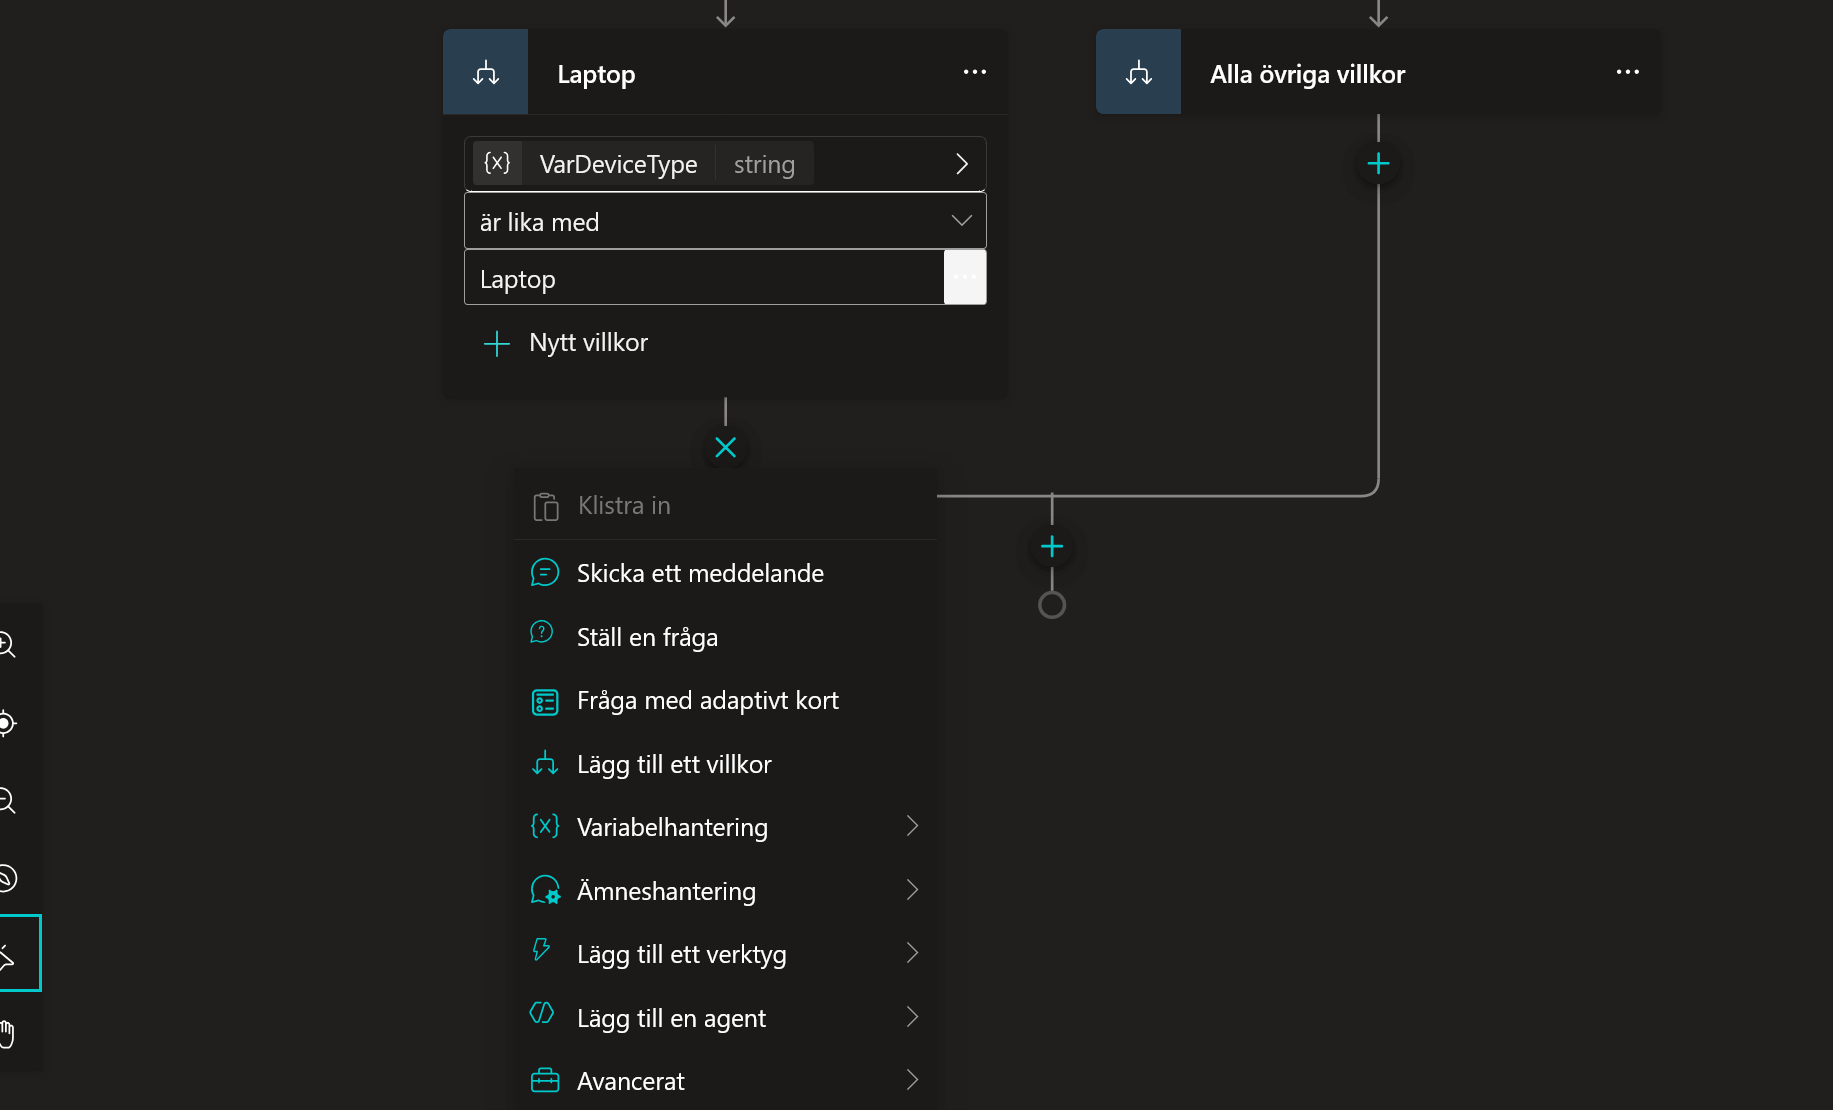
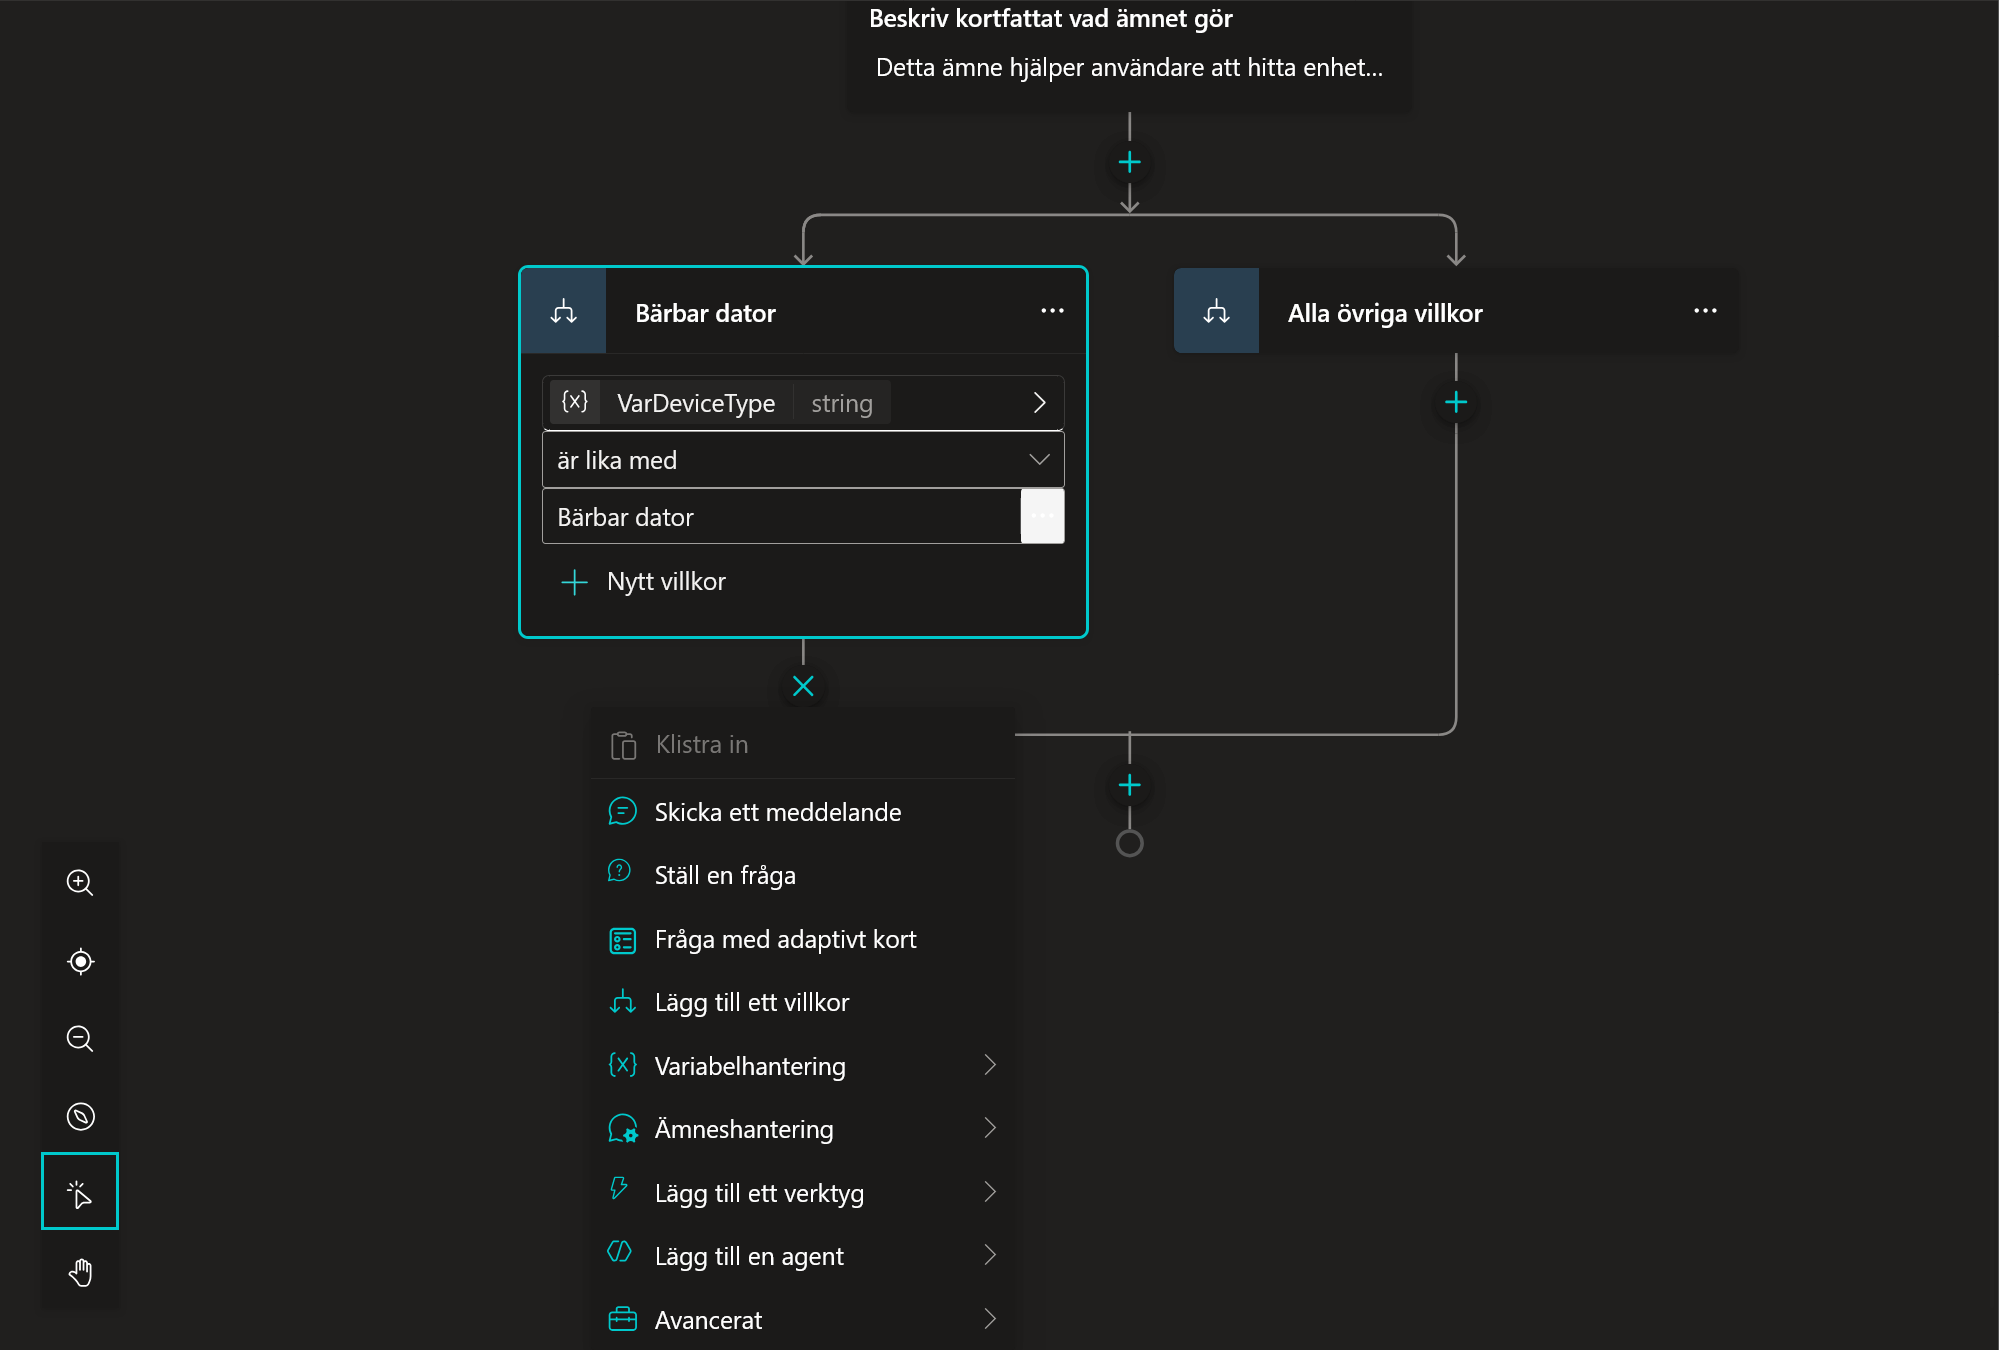
Fix två spåk

diff --git a/docs/04-create-agent.sv.md b/docs/04-create-agent.sv.md
@@ -2,7 +2,7 @@
 
 Nu har vi gjort klart all nödvändig setup. Vi har datan, vi har miljön och vi har vår Solution. Nu är det dags att börja bygga!
 
-Vi ska bygga en **IT Support Helper**. I början kommer den fokusera på hårdvara (det vi lade i SharePoint), men tanken är att den ska växa och kunna hantera alla möjliga IT-frågor framöver.
+Vi ska bygga en **IT Support agent**. I början kommer den fokusera på hårdvara (det vi lade i SharePoint), men tanken är att den ska växa och kunna hantera alla möjliga IT-frågor framöver.
 
 ---
 
@@ -16,7 +16,7 @@ Vi rekommenderar att du använder huvudmenyn (den vanliga vägen), men för kän
     Om du vill vara 100% säker på var agenten hamnar, eller om du inte använder "Föredragen lösning"-funktionen, gör du så här:
 
     **1. Gå in i din Solution**
-    Navigera till **Lösningar** i menyn och klicka på din lösning (`IT Helpdesk Agent`).
+    Navigera till **Lösningar** i menyn och klicka på din lösning (`IT Support Agent`).
     
     ![Lista med lösningar](assets/images-sv/chap04/1.png)
 
@@ -59,7 +59,7 @@ Vi kommer att välja alternativ 3: **Skapa tom agent**.
 **Gör så här:**
 
 1. Om du varit inne i Lösningar nyss: Klicka på **Copilot Studio**-loggan uppe till vänster.
-2. Klicka på **Agenter** i vänstermenyn.
+2. Klicka på **Handläggare** i vänstermenyn.
 3. Klicka på **+ Skapa tom agent** (uppe i högra hörnet).
 
     ![Klicka på Skapa tom agent](assets/images-sv/chap04/6.png)
@@ -93,7 +93,7 @@ Till höger ser du **Testa din agent**. Det är din sandlåda där du kan chatta
 
 Nu ska vi ge agenten dess identitet. Fyll i följande i fälten på skärmen:
 
-1.  **Namn:** `IT Support Helper`
+1.  **Namn:** `IT Support agent`
 2.  **Beskrivning:**
     ```text
     En professionell IT-supportagent som hjälper användare med frågor om hårdvara och nätverk osv.
@@ -137,7 +137,7 @@ Vi börjar med att kolla att den förstår sin roll.
     > *Hej, vem är du?*
 
 2. **Förväntat resultat:**
-    Agenten ska presentera sig som **IT Support Helper** (eller det namn du valde) och erbjuda hjälp. Den ska vara trevlig och professionell.
+    Agenten ska presentera sig som **IT Support agent** (eller det namn du valde) och erbjuda hjälp. Den ska vara trevlig och professionell.
 
 ![Agenten hälsar](assets/images-sv/chap04/9.png)
 

diff --git a/docs/06-create-topic.sv.md b/docs/06-create-topic.sv.md
@@ -154,7 +154,8 @@ Vi ska börja med att skapa ett vägskäl. Om användaren vill ha en "Bärbar da
     * **Lägg till ett villkor:** Skapar vägval (Om X, gör Y). Som en "If-sats".
     * **Variabelhantering:** För att skapa eller ändra variabler manuellt.
     * **Ämneshantering:** För att hoppa till andra ämnen eller avsluta samtalet.
-    * **Anropa en åtgärd (Lägg till ett verktyg):** Här hittar vi våra "superkrafter" som Power Automate och SharePoint.
+    * **Lägg till ett verktyg:** Här hittar vi våra "superkrafter" som Power Automate och SharePoint.
+    * **Lägg till en agent:** Här kan vi koppla ihop vår agent med andra agenter.
     * **Avancerat:** Avancerade funktioner som HTTP-anrop och inloggning.
 
 3.  Välj **Lägg till ett villkor**.

diff --git a/docs/05-add-knowledge.sv.md b/docs/05-add-knowledge.sv.md
@@ -56,7 +56,7 @@ Du får ta med din arbetsdator hem. För att säkerställa att datorn har de sen
 
 Nu ska vi lära agenten innehållet i filen.
 
-1. Se till att du är inne i din agent (**IT Support Helper**).
+1. Se till att du är inne i din agent (**IT Support agent**).
 2. Leta upp sektionen **Kunskap** (oftast mitt på sidan eller under fliken Kunskap) och klicka på **Lägg till kunskap**.
 
     ![Meny för att lägga till kunskap](assets/images-sv/chap05/1.png)
